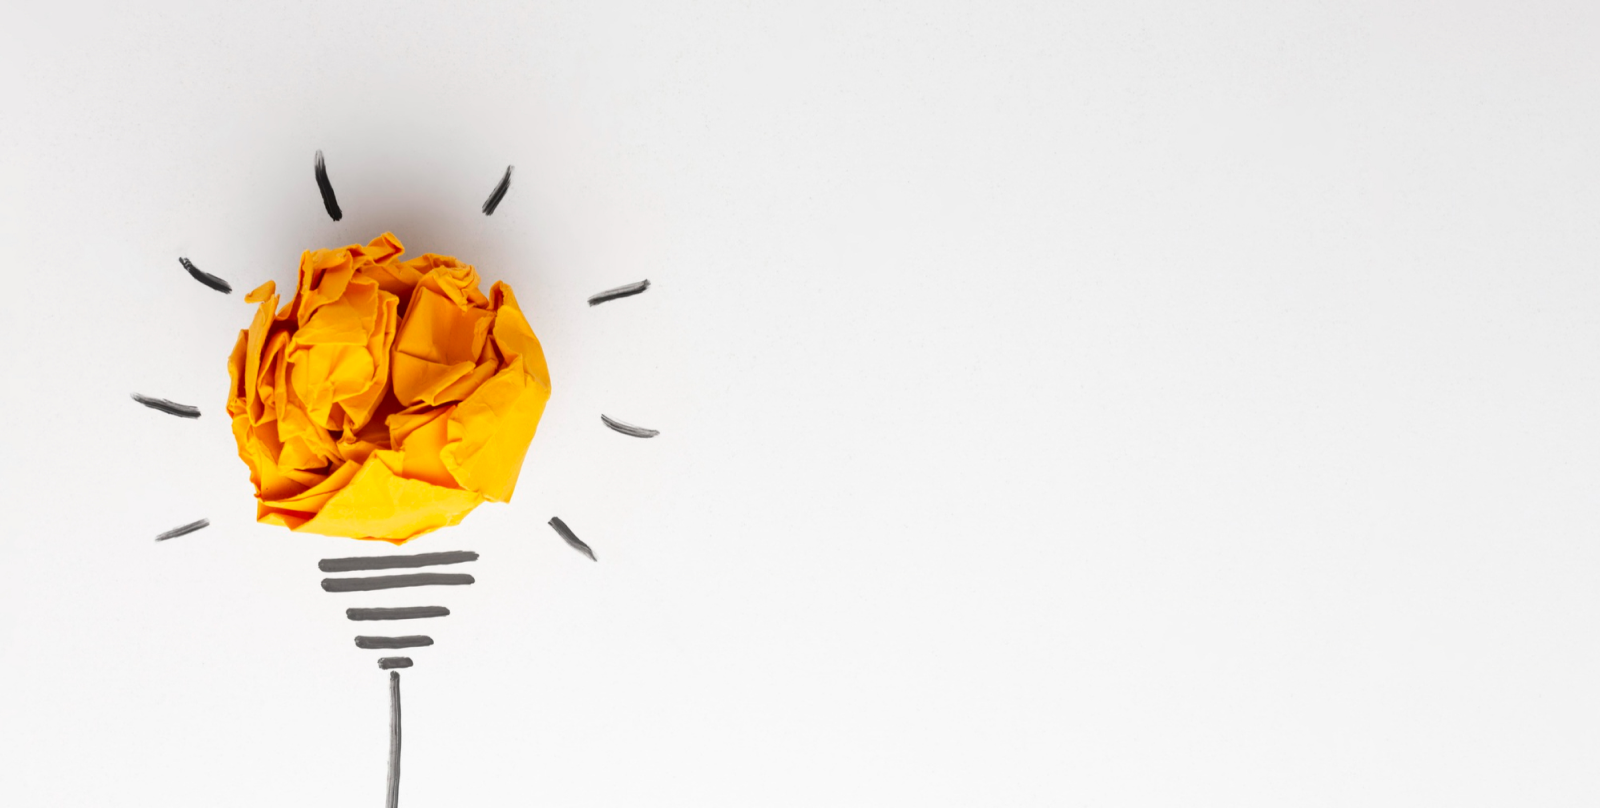
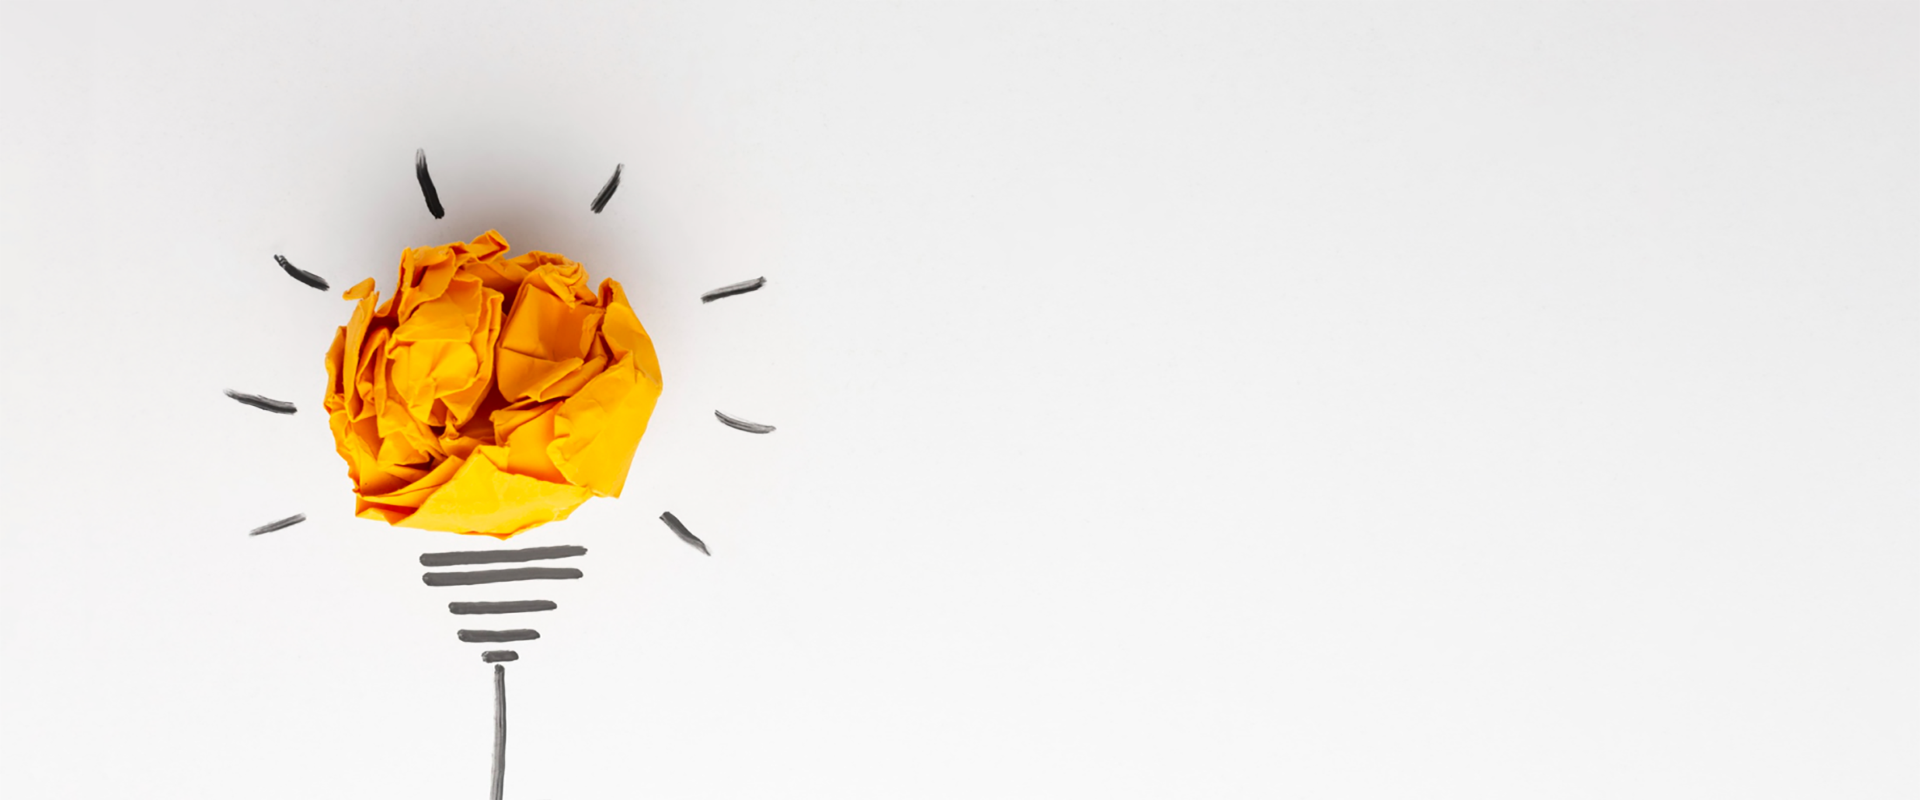
Footer added

diff --git a/index.html b/index.html
@@ -45,7 +45,7 @@
 
     <section class="myfailures">
       <div class="contaienr">
-        <img src="" alt="" class="myimg" />
+        <img src="images/person.png" alt="" class="myimg" />
         <div class="text-container">
           <h1 class="title">My failures of previous year</h1>
           <p class="description">
@@ -53,6 +53,15 @@
             It has roots in a piece of classical Latin literature from 45 BC,
             making it over 2000 years old. Richard McClintock.
           </p>
+          <div class="list">
+            <ul>
+              <li>Contrary to popular belief, is not simply.</li>
+              <li>Contrary to popular belief.</li>
+              <li>Contrary to popular , is not simply.</li>
+              <li>Contrary to popular belief, is not simply.</li>
+              <li>Contrary to popular simply.</li>
+            </ul>
+          </div>
         </div>
       </div>
     </section>
@@ -60,26 +69,27 @@
     <!-- My Plans Start-->
 
     <section class="myplans">
+      <h1 class="title">My Plans</h1>
       <div class="contaienr">
         <div class="card">
-          <img src="" alt="" class="cardimg" />
+          <img src="images/icons/web.png" class="cardimg" />
           <h3 class="title">Web Development</h3>
           <p class="dis">I want to start</p>
         </div>
         <div class="card">
-          <img src="" alt="" class="cardimg" />
+          <img src="images/icons/js.png" class="cardimg" />
           <h3 class="title">Javascript</h3>
           <p class="dis">I want to start</p>
         </div>
 
         <div class="card">
-          <img src="" alt="" class="cardimg" />
+          <img src="images/icons/smoke.png" class="cardimg" />
           <h3 class="title">Smoking Habit</h3>
           <p class="dis">I want to start</p>
         </div>
 
         <div class="card">
-          <img src="" alt="" class="cardimg" />
+          <img src="images/icons/ecom.png" class="cardimg" />
           <h3 class="title">ecommerce</h3>
           <p class="dis">I want to start</p>
         </div>
@@ -101,9 +111,32 @@
     <footer>
       <div class="contaienr">
         <div class="left">
-          <h2>Future</h2>
+          <h2 class="logotitle">Future</h2>
+          <p class="fdis">
+            There are many variations of passages of Lorem Ipsum available, but
+            the majority have suffered alteration in some form, by injected
+            humour, or randomised words
+          </p>
+          <div class="contactinfo">
+            <p class="fdis">Email : info@gmail.com</p>
+            <p class="fdis">Phone : 01500 00 00 00</p>
+          </div>
+          <div class="Socialcontack">
+            <img src="images/icons/fb.png" class="icon" />
+            <img src="images/icons/twitter.png" class="icon" />
+            <img src="images/icons/youtube.png" class="icon" />
+          </div>
         </div>
-        <div class="left"></div>
+
+        <div class="left">
+          <div class="left">
+            <div class="subscrivecontenet">
+              <h2 class="subscribe">Subscribe</h2>
+              <input type="email" placeholder="Enter your email" />
+              <button class="btn-white">Subscribe</button>
+            </div>
+          </div>
+        </div>
       </div>
     </footer>
   </body>

diff --git a/style.css b/style.css
@@ -32,11 +32,11 @@ nav {
   display: flex;
   padding: 15px 10%;
   justify-content: space-between;
-  background-color: white;
+  background-color: #151414;
 }
 
 .nav-title {
-  color: #151414;
+  color: #ffffff;
   font-weight: 700;
   font-size: 45px;
   line-height: 53px;
@@ -56,30 +56,19 @@ nav li {
 }
 
 nav .navitems {
+  color: #fff;
   font-weight: 600;
   font-size: 20px;
   line-height: 23px;
 }
 
-/* .banner {
-  display: flex;
-  align-items: center;
-  justify-content: center;
-  padding: 0px 20%;
-  background-image: linear-gradient(
-      360deg,
-      #121212 0%,
-      rgba(18, 18, 18, 0) 100%
-    ),
-    url(images/bg.png);
-  height: 850px;
-} */
-
 .banner {
   display: flex;
   justify-content: end;
+  background-image: url("images/banner/banner1.png");
   padding: 0px 10%;
-  height: 850px;
+  height: 800px;
+  background-repeat: no-repeat;
 }
 
 .content-container {
@@ -109,40 +98,50 @@ nav .navitems {
 /* My Failure Start */
 
 .myfailures {
-  padding: 0px 10%;
-  margin: 130px 0;
+  padding: 130px 10%;
 }
 .contaienr {
   display: flex;
-  gap: 90px;
+  gap: 100px;
 }
 
-.text-container {
-  width: 50%;
-  align-self: center;
-}
-
-.myfailures img {
-}
-
-.myfailures .title {
-  font-weight: 700;
-  font-size: 40px;
-  line-height: 47px;
-  color: #151414;
-}
-.myfailures .description {
+.myfailures ul li {
+  list-style-image: url("images/icons/check.png");
   font-weight: 400;
   font-size: 16px;
   line-height: 26px;
   color: #444343;
 }
 
+.text-container {
+  width: 25%;
+  align-self: center;
+}
+.myfailures .title {
+  font-weight: 700;
+  font-size: 40px;
+  line-height: 47px;
+  color: #151414;
+  text-align: left;
+}
+.myfailures .description {
+  text-align: left;
+  font-weight: 400;
+  font-size: 16px;
+  line-height: 26px;
+  color: #444343;
+}
+
+.myfailures .list {
+  margin-left: 24px;
+}
+
+/* MyPlan Start */
 .myplans {
-  margin: 130px 0;
-  padding: 0px 10%;
+  padding: 130px 10%;
 }
 .contaienr {
+  text-align: center;
   display: flex;
   gap: 86px;
   margin-top: 60px;
@@ -201,4 +200,41 @@ nav .navitems {
 footer {
   background-color: #151414;
   padding: 130px 10%;
+}
+footer .contaienr {
+  display: flex;
+  justify-content: space-between;
+}
+footer .logotitle {
+  font-weight: 700;
+  font-size: 45px;
+  line-height: 53px;
+  color: #f8f8f8;
+}
+footer .fdis {
+  font-weight: 400;
+  font-size: 16px;
+  line-height: 26px;
+  color: #ffffff;
+}
+
+.Socialcontack {
+  display: flex;
+  gap: 24px;
+}
+
+.subscribe {
+  font-weight: 600;
+  font-size: 25px;
+  line-height: 29px;
+  color: #ffffff;
+}
+
+.subscrivecontenet input {
+  color: #fff;
+  border: 1px solid #ffffff;
+  background-color: transparent;
+  border-radius: 8px;
+  width: 325px;
+  padding: 24px;
 }
